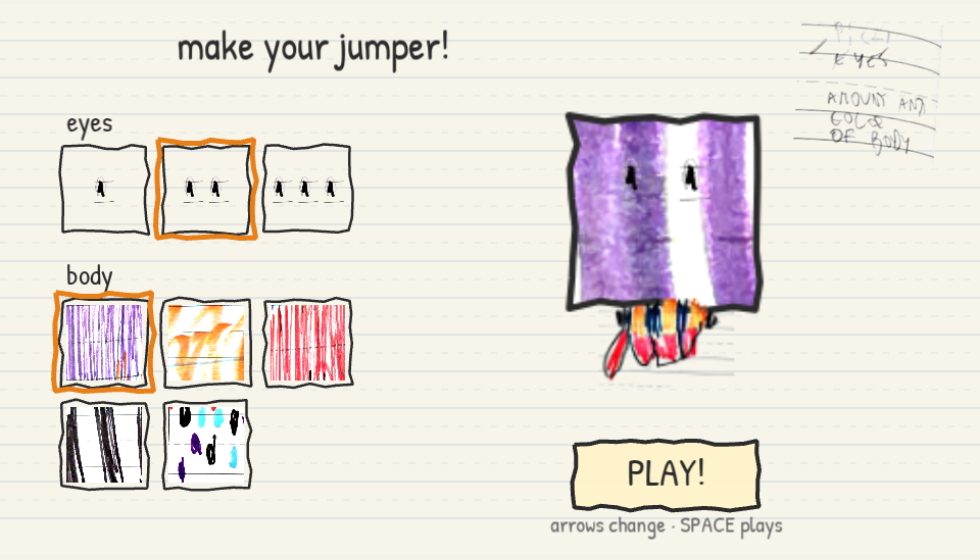
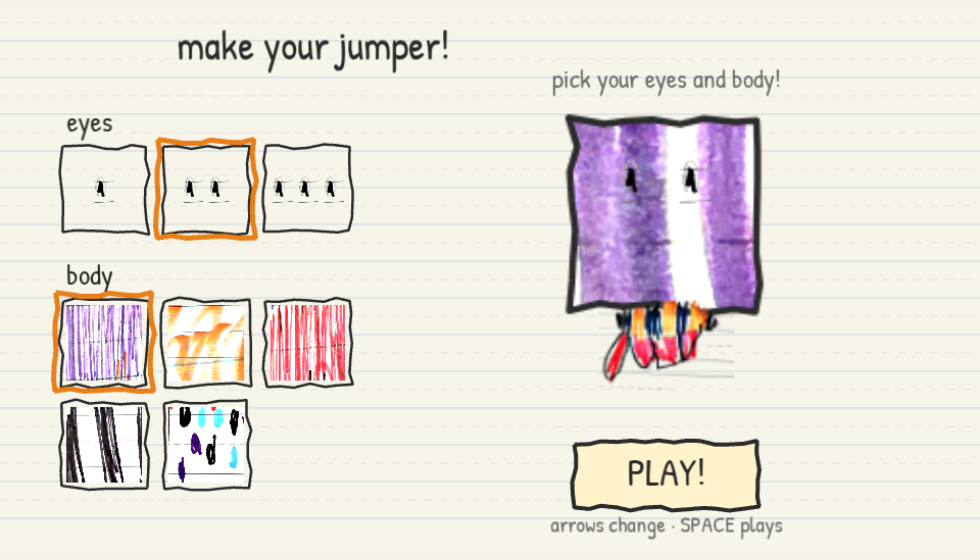
Document the playtest round in README and DECISIONS; refresh screenshot

diff --git a/docs/DECISIONS.md b/docs/DECISIONS.md
@@ -70,6 +70,25 @@ deterministically in Node with no browser or WebGL. Phaser scenes under
 `src/scenes/` are thin shells that render that logic. Sound is synthesized with
 WebAudio (no audio assets) and no-ops safely where AudioContext doesn't exist.
 
+## Changes from the first playtest (2026-08-06, Adrian)
+
+- **Only Giulio's marks are art.** The pencil annotations on the scans (the
+  "pick eyes" note, power-up labels, victory caption) are Adrian's notes, so
+  they were removed from the sprite set; the game renders proper text instead.
+  A test keeps annotation sprites from coming back.
+- **Double jump** (press jump again in mid-air) — the boss-arena side
+  platforms were also lowered into single-jump range; they had been drawn
+  higher than a base jump could reach.
+- **Muscle Mayhem is a costume**: the transformed player keeps the normal
+  hurtbox and the oversized art is drawn in front of scenery, so the monster
+  fits everywhere the jumper fits (previously he couldn't pass under low
+  platforms).
+- **Music**: synthesized chiptune loops (title, level, boss, victory —
+  silence during the RIP scene) as pure note data through a WebAudio
+  lookahead scheduler; still no external assets.
+- **Credits page** after Victory and via the title screen: game design and
+  graphics Giulio Deccico; game programming Adrian Deccico.
+
 ## Release cycle
 
 Tests run before every commit (`npm run check` = typecheck + tests + production

diff --git a/README.md b/README.md
@@ -22,11 +22,13 @@ yourself.
 ## How to play
 
 - **Arrow keys / WASD** — move
-- **SPACE / up** — jump (grab *Big Jumps* to jump twice as high, *2x Speed* to run faster)
+- **SPACE / up** — jump, and press again in mid-air for a **double jump**
+  (grab *Big Jumps* to jump twice as high, *2x Speed* to run faster)
 - **E / Shift** — when the special meter is full (collect two X's): transform
   into **Muscle Mayhem** — invincible, and you damage bosses by touching them
 - **Jump on a monster's head** to hurt it. Monster A's chest **X** is his weak
   spot — stomp him, then touch the X while he's dizzy!
+- **C** on the title screen shows the credits
 
 Losing all five hearts just restarts the current screen. Nobody gets stuck.
 
